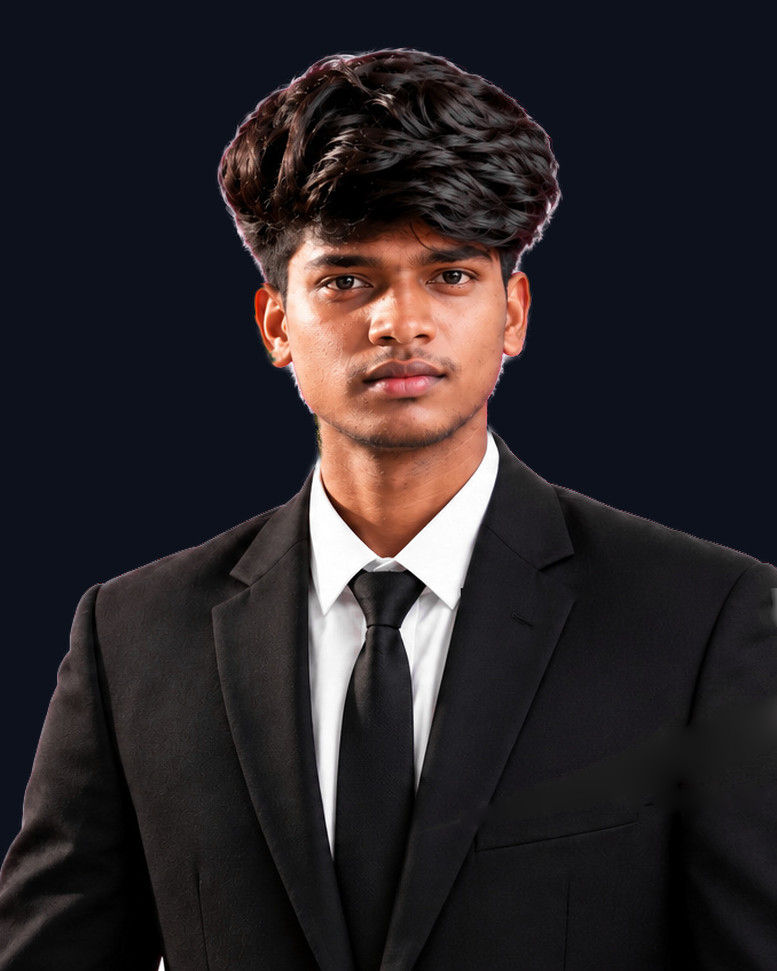
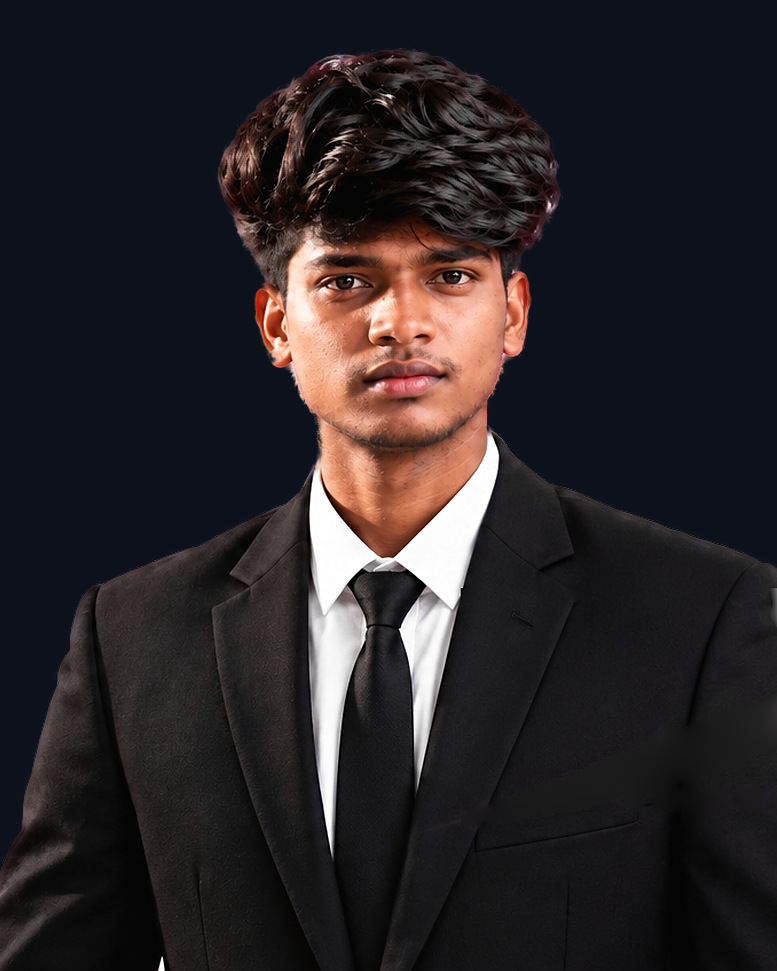
feat: improve hero portrait quality

diff --git a/scripts/extract-portrait.py b/scripts/extract-portrait.py
@@ -31,9 +31,17 @@ Stages
   4. unmix      C = a*F + (1-a)*B solved for F along the edge band, so the
                 pink backdrop stops bleeding into the hair.
   5. colour     magenta grade neutralised; white shirt rebalanced.
-  6. crop       4:5 portrait, centred on the head, full shoulders kept,
+  6. decontam   the semi-transparent edge still carries a bright, pinkish
+                fringe from the mockup backdrop; it takes the colour of the
+                solid subject just inside it instead, and the matte is choked
+                by a fraction of a pixel.
+  7. crop       4:5 portrait, centred on the head, full shoulders kept,
                 then scaled uniformly onto the 777 x 971 grid the reveal's
                 viewBox is fixed to (src/animations/heroReveal.ts).
+  8. finish     photographic polish at output size: chroma-only denoise, a
+                gentle luminance S-curve, and restrained luminance-only
+                sharpening that is eased on skin and kept off the matte edge.
+                Nothing here moves a pixel or adds detail that is not there.
 
 Requires numpy, pillow, scipy, onnxruntime. The ~176 MB segmentation model is
 downloaded once into `scripts/.cache/`.
@@ -48,6 +56,8 @@ import numpy as np
 from PIL import Image
 from scipy.ndimage import (
     binary_dilation,
+    distance_transform_edt,
+    gaussian_filter,
     binary_fill_holes,
     label,
     median_filter,
@@ -73,7 +83,7 @@ MAGENTA = 0.85  # how hard to pull the mockup pink grade out
 RATIO = 4 / 5
 HEADROOM = 42
 OUT_SIZE = (777, 971)  # REVEAL_VIEWBOX; the hero CSS ratio is keyed to it
-JPEG_QUALITY = 90
+JPEG_QUALITY = 93
 
 MEAN = np.array([0.485, 0.456, 0.406], np.float32)
 STD = np.array([0.229, 0.224, 0.225], np.float32)
@@ -179,6 +189,91 @@ def neutralise(img, strength, shirt_y):
     return desat(out, mx2, s2, 0.92 * (strength / 0.85) * w2)
 
 
+def luma(img):
+    return img @ np.array([0.2126, 0.7152, 0.0722], np.float32)
+
+
+def gauss(x, s):
+    return gaussian_filter(x, sigma=(s, s) + (0,) * (x.ndim - 2), mode="nearest")
+
+
+def decontaminate(img, alpha):
+    """Give the subject's outer few pixels the subject's colour, not the backdrop's.
+
+    The mockup's glow sits partly INSIDE the matte, so the soft edge alone is
+    not enough: everything within ~5 px of the silhouette is in scope. Colour
+    from the subject's interior is pushed outward by normalised convolution,
+    and the rim is pulled toward it -- but only where the rim is BRIGHTER than
+    the interior behind it, which is what the glow is. Darker or equal edge
+    detail is left exactly as it was.
+    """
+    inside = alpha > 0.5
+    depth = distance_transform_edt(inside)
+    deep = (depth > 5).astype(np.float32)
+    inner = img.copy()
+    filled = deep > 0.5
+    for s in (2.0, 4.0, 8.0):  # nearest scale first, wider only where needed
+        w = gauss(deep, s)
+        prop = gauss(img * deep[..., None], s) / np.maximum(w, 1e-4)[..., None]
+        take = ~filled & (w > 0.02)
+        inner[take] = prop[take]
+        filled |= take
+    rim = np.where(inside, np.clip((6 - depth) / 3, 0, 1), 1.0) * (alpha > 0.01)
+    lift = np.clip((luma(img) - luma(inner) - 0.015) / 0.08, 0, 1)
+    w = (0.9 * rim * lift)[..., None]
+    out = img * (1 - w) + inner * w
+    return out, np.clip((alpha - 0.10) / 0.90, 0, 1)
+
+
+def finish(px, a, skin_mask):
+    """Polish at output size. Colour stays where it is; only tone and acuity."""
+    L = luma(px)
+
+    # 1 -- chroma denoise: compression blotches live in colour, detail in luma
+    chroma = px - L[..., None]
+    chroma = chroma * 0.4 + gauss(chroma, 1.1) * 0.6
+    px = np.clip(L[..., None] + chroma, 0, 1)
+
+    # 2 -- tone: a gentle S on luminance, with a small toe so the hair keeps
+    # its strands. Applied as a ratio, so hue and saturation hold.
+    s = L * L * (3 - 2 * L)
+    L2 = L + 0.16 * (s - L) + 0.018 * (1 - L) ** 6
+    # Ratio above ~0.08 luma; additive (neutral) below, where a ratio would
+    # multiply one surviving channel into coloured speckles in the hair.
+    ratio = px * (L2 / np.maximum(L, 1e-4))[..., None]
+    shift = px + (L2 - L)[..., None]
+    t = np.clip((L - 0.04) / 0.08, 0, 1)[..., None]
+    px = np.clip(ratio * t + shift * (1 - t), 0, 1)
+
+    # 3 -- acuity, luminance only. Fine detail for eyes, brows, hair and
+    # fabric weave; a little mid-scale clarity for form. Skin gets ~half, so
+    # pores stay pores. Nothing within ~3 px of the matte edge is touched,
+    # which is what keeps halos off the silhouette.
+    Lp = luma(px)
+    fine = Lp - gaussian_filter(Lp, 0.9, mode="nearest")
+    fine = np.sign(fine) * np.clip(np.abs(fine) - 0.004, 0, None)  # noise floor
+    mid = Lp - gaussian_filter(Lp, 4.0, mode="nearest")
+    core = gaussian_filter((a > 0.97).astype(np.float32), 1.5, mode="nearest")
+    core = np.clip((core - 0.5) * 2, 0, 1)
+    gain = core * (1 - 0.5 * skin_mask)
+    delta = (0.55 * fine + 0.12 * mid) * gain
+    out = px + delta[..., None]
+    return np.clip(out, 0, 1)
+
+
+def skin(img):
+    """Soft warm-skin mask, only used to ease sharpening on the face."""
+    h, s, mx = hsv(img)
+    w = (
+        np.clip((h - 2) / 8, 0, 1)
+        * np.clip((52 - h) / 14, 0, 1)
+        * np.clip((s - 0.14) / 0.10, 0, 1)
+        * np.clip((0.80 - s) / 0.16, 0, 1)
+        * np.clip((mx - 0.10) / 0.10, 0, 1)
+    )
+    return gaussian_filter(w, 3.0, mode="nearest")
+
+
 def main():
     src = Image.open(SRC).convert("RGB")
     W, H = src.size
@@ -231,8 +326,12 @@ def main():
     band = (np.clip((0.97 - alpha) / 0.45, 0, 1) * (alpha > 0.02))[..., None]
     work = np.clip(work * (1 - band) + np.clip(fg, 0, 1) * band, 0, 1)
 
-    # 5 + 6 -- colour, then crop
+    # 5 + 6 -- colour, then edge decontamination
     work = neutralise(work, MAGENTA, SHIRT_Y)
+    # framing below is still measured on the unchoked matte, so the crop holds
+    work, matte = decontaminate(work, alpha)
+
+    # 7 -- crop
 
     head = alpha[ys.min() : ys.min() + 360]
     hx = np.where(head.sum(0) > 0.5)[0]
@@ -244,7 +343,7 @@ def main():
     print("crop    (%d,%d)+%dx%d  head cx=%d" % (left, top, cw, ch, cx))
 
     px = work[top:H, left : left + cw]
-    a = alpha[top:H, left : left + cw]
+    a = matte[top:H, left : left + cw]
     if (cw, ch) != OUT_SIZE:
         # Uniform scale only: the crop is already 4:5, so nothing stretches.
         print("scale   %dx%d -> %dx%d" % ((cw, ch) + OUT_SIZE))
@@ -261,11 +360,14 @@ def main():
         a = np.asarray(Image.fromarray(a).resize(OUT_SIZE, Image.LANCZOS), np.float32)
         px, a = np.clip(px, 0, 1), np.clip(a, 0, 1)
 
-    Image.fromarray((np.dstack([px, a]) * 255).astype(np.uint8), "RGBA").save(
+    # 8 -- finish
+    px = finish(px, a, skin(px))
+
+    Image.fromarray((np.dstack([px, a]) * 255 + 0.5).astype(np.uint8), "RGBA").save(
         OUT_PNG, optimize=True
     )
     flat = px * a[..., None] + BG * (1 - a[..., None])
-    Image.fromarray((flat * 255).astype(np.uint8)).save(
+    Image.fromarray((flat * 255 + 0.5).astype(np.uint8)).save(
         OUT_JPG, quality=JPEG_QUALITY, subsampling=0, optimize=True, progressive=True
     )
     for p in (OUT_JPG, OUT_PNG):

diff --git a/scripts/make-hero-ai.py b/scripts/make-hero-ai.py
@@ -44,7 +44,7 @@ ROOT = os.path.dirname(os.path.dirname(os.path.abspath(__file__)))
 SRC = os.path.join(ROOT, "public", "images", "hero-clean.png")
 OUT = os.path.join(ROOT, "public", "images", "hero-ai.jpg")
 
-JPEG_QUALITY = 90  # matches hero-clean.jpg
+JPEG_QUALITY = 93  # matches hero-clean.jpg
 SEED = 20251003
 
 # Palette, straight off the design tokens in src/styles/tokens.css

diff --git a/public/images/README.md b/public/images/README.md
@@ -37,7 +37,10 @@ typography, swooshes and pink backdrop are all removed by an alpha matte, and
 the chrome printed over the subject (the orbit swoosh and
 "( SCROLL TO EXPLORE )", across the jacket) is inpainted. The subject itself
 is only cropped and uniformly scaled to 777 x 971 — never generated, warped or
-reshaped. See the script's header for the full
+reshaped. A final pass decontaminates the backdrop glow from the silhouette
+edge and applies a light photographic finish (chroma denoise, gentle tone
+curve, restrained luminance-only sharpening); it adds no detail and moves no
+pixel. See the script's header for the full
 stage list and for what the colour pass is and is not allowed to touch.
 
 `scripts/.cache/` holds the ~176 MB segmentation model; it is gitignored and
